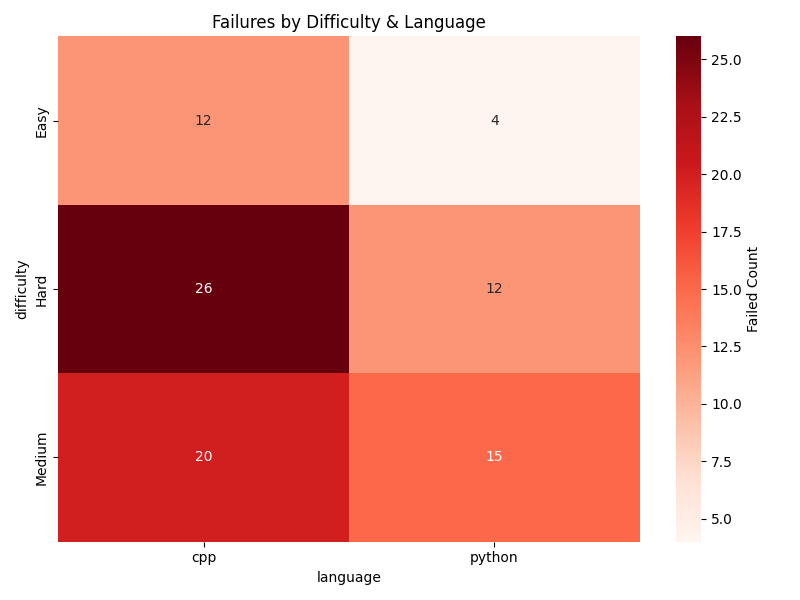
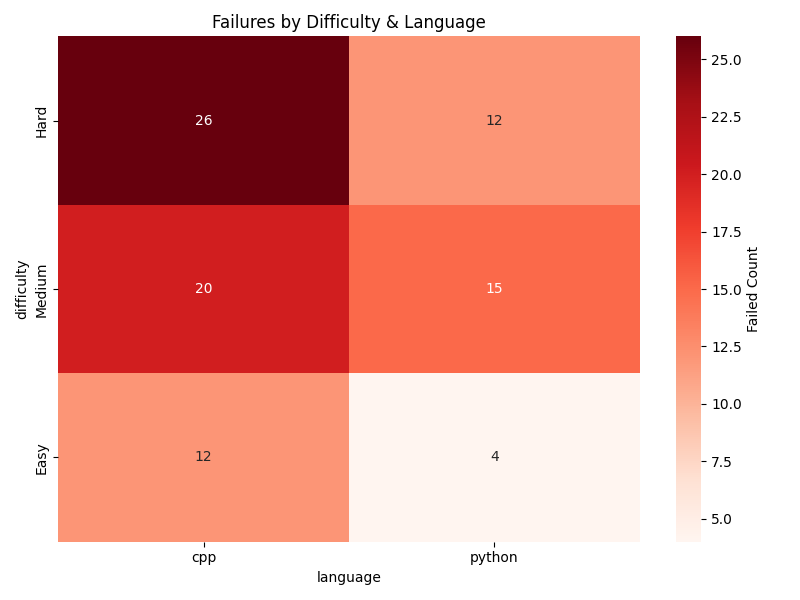
sorting graph b

diff --git a/generated_code/unittest_run_all.py b/generated_code/unittest_run_all.py
@@ -897,13 +897,31 @@ def plot_graph_a_failed_vs_passed(attempt_df: pd.DataFrame):
 
 # b. HEATMAP: Measure # of failed attempts vs difficulty type in C++ vs Python
 def plot_graph_b_failed_vs_difficulty(attempt_df: pd.DataFrame):
-    failures = attempt_df[attempt_df['result'] == 'failed']
-    matrix = failures.pivot_table(index='difficulty', columns='language', aggfunc='size', fill_value=0)
+    """
+    Heatmap: Measures failed attempts vs difficulty, sorted Hard -> Easy.
+    """
+    failures = attempt_df[attempt_df['result'] == 'failed'].copy()
+    
+    # Force categorical order: Hard (top) to Easy (bottom)
+    failures['difficulty'] = pd.Categorical(
+        failures['difficulty'], 
+        categories=['Hard', 'Medium', 'Easy'], 
+        ordered=True
+    )
+    
+    matrix = failures.pivot_table(
+        index='difficulty', 
+        columns='language', 
+        aggfunc='size', 
+        fill_value=0
+    )
+    
     plt.figure(figsize=(8, 6))
     sns.heatmap(matrix, annot=True, fmt='d', cmap='Reds', cbar_kws={'label': 'Failed Count'})
     plt.title("Failures by Difficulty & Language")
     plt.xticks(rotation=0)
     save_current_figure("graph_b_failed_vs_difficulty.png")
+
 import seaborn as sns
 import matplotlib.pyplot as plt
 import pandas as pd
